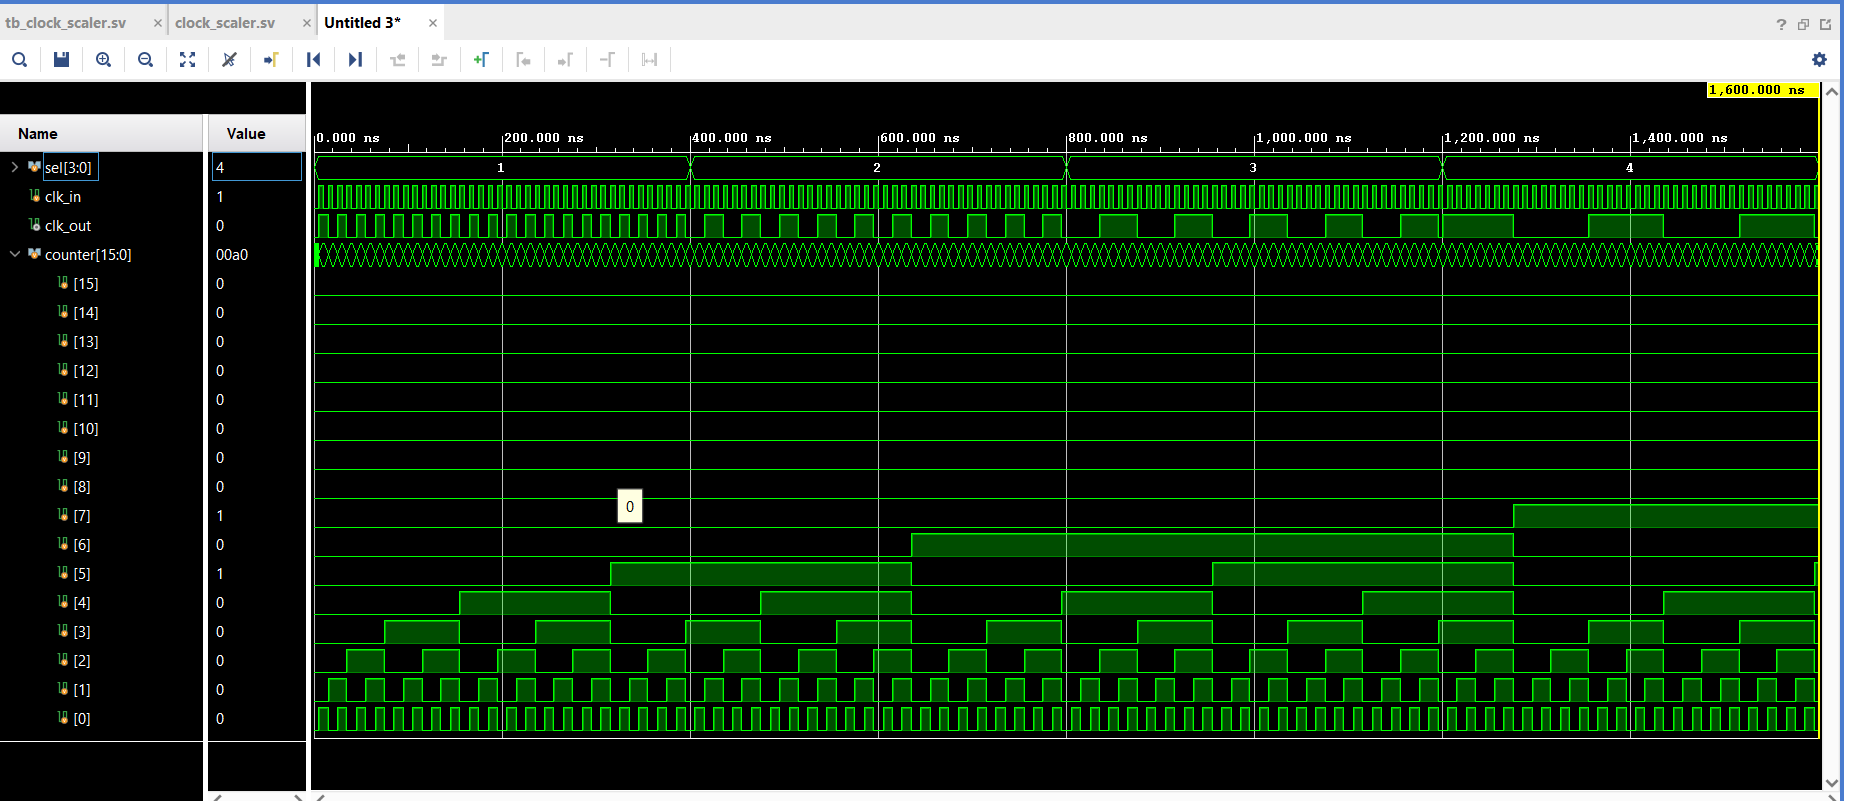
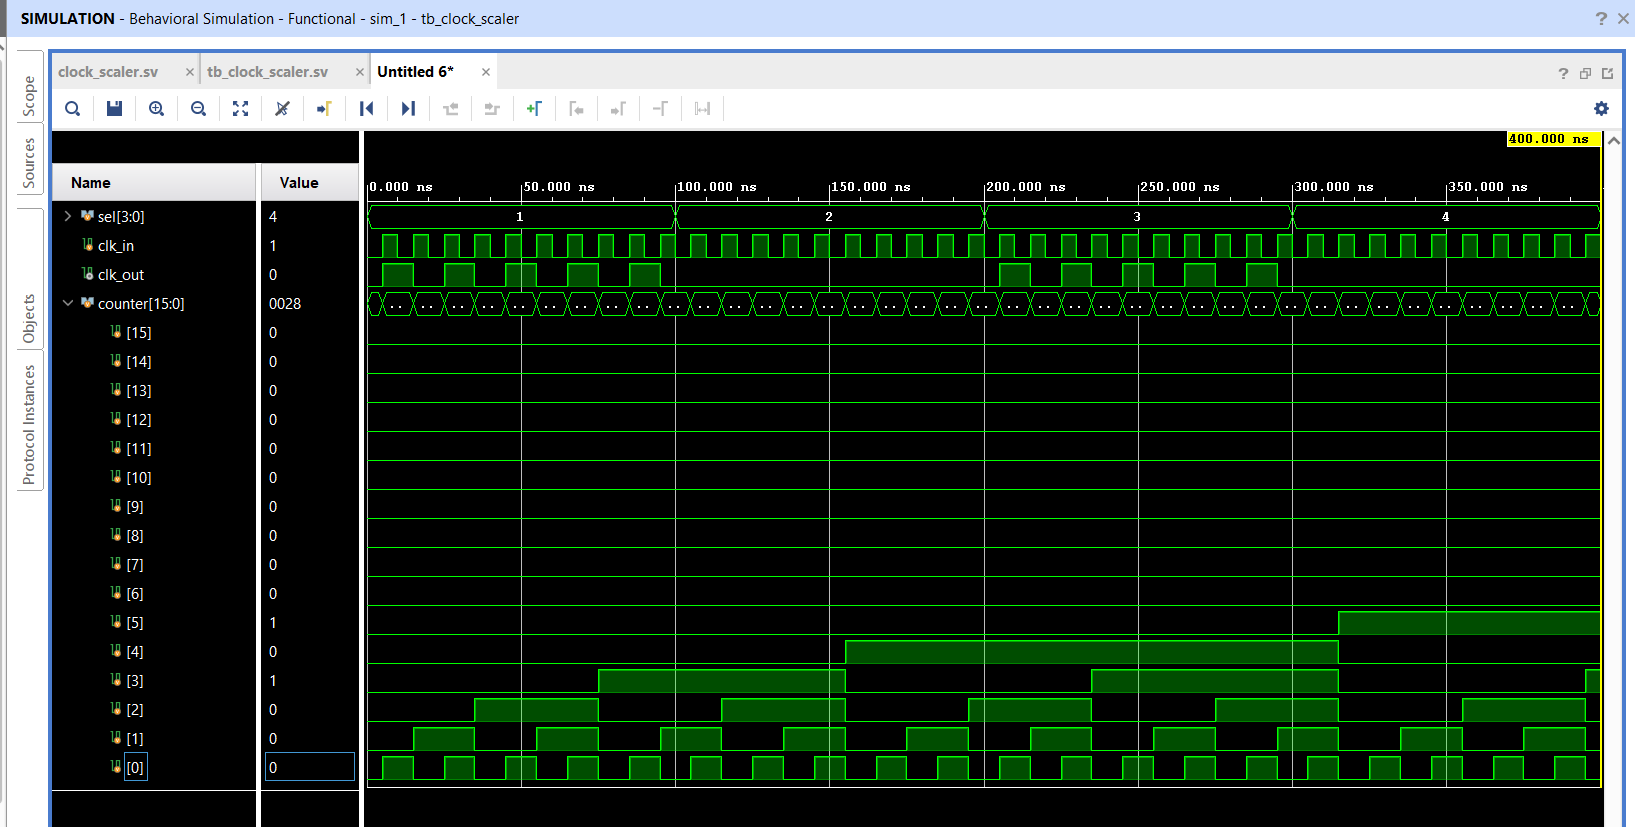
Rename traffic light FSM project to 06 :wq

diff --git a/06-traffic-light-fsm/README.md b/06-traffic-light-fsm/README.md
@@ -1,0 +1,39 @@
+# Project 05 — Traffic Light FSM
+
+A six-state Moore finite-state machine for a two-road traffic-light controller, written in Verilog and simulated in Vivado.
+
+## Inputs
+- `clk`: clock input, generated by the testbench with a 10 ns period.
+- `reset`: synchronous, active-high reset. At a rising clock edge while reset is high, the FSM returns to `S0` and the counter is cleared.
+- `SB`: sensor for a vehicle on road B.
+
+## Outputs
+- Road A: `Ay` (green), `As` (yellow), `Ak` (red)
+- Road B: `By` (green), `Bs` (yellow), `Bk` (red)
+
+## State sequence
+| State | Road A | Road B | Transition |
+|---|---|---|---|
+| `S0` | Green | Red | Remain while waiting; when `counter == 10` and `SB == 1`, go to `S1` |
+| `S1` | Yellow | Red | `S2` |
+| `S2` | Red | Yellow | `S3` |
+| `S3` | Red | Green | Go to `S4` when `counter == 10` |
+| `S4` | Red | Yellow | `S5` |
+| `S5` | Yellow | Red | `S0` |
+
+## Repository structure
+- `rtl/traffic_light_fsm.sv` — FSM RTL
+- `testbench/tb_traffic_light_fsm.v` — clock, reset and sensor stimulus
+- `simulation/traffic_light_fsm_waveform.png` — simulation waveform
+- `synthesis/rtl_elaborated_schematic.png` — elaborated RTL schematic
+- `synthesis/post_synthesis_schematic.png` — post-synthesis schematic
+- `synthesis/utilization.png` — synthesis resource utilization report
+
+## Synthesis snapshot
+The supplied Vivado utilization screenshot reports:
+- LUT: 12 / 8000 (0.15%)
+- Flip-flops: 10 / 16000 (0.06%)
+- I/O: 9 / 150 (6.00%)
+
+## Notes
+This is a learning project. The screenshots document the current simulation and synthesis run. Exact state-duration behavior should be checked against the waveform and the lab's timing requirements before treating it as fully verified.

diff --git a/README.md b/README.md
@@ -80,7 +80,9 @@ A configurable clock frequency divider using a counter and combinational selecti
 
 The design uses a 100 MHz input clock. Each successive counter bit operates at half the frequency of the preceding bit.
 
-### 05 — Traffic Light FSM
+### 05 — stepper-motor-controller
+
+### 06 — Traffic Light FSM
 
 A Moore finite state machine (FSM) for controlling a two-road traffic light system.
 
